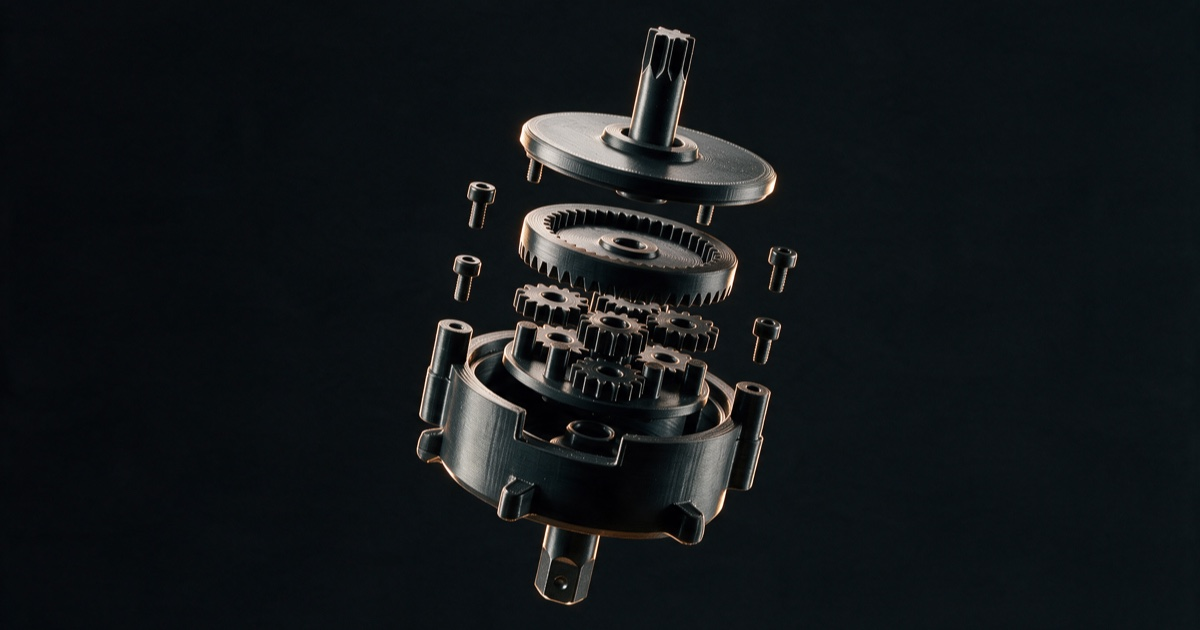
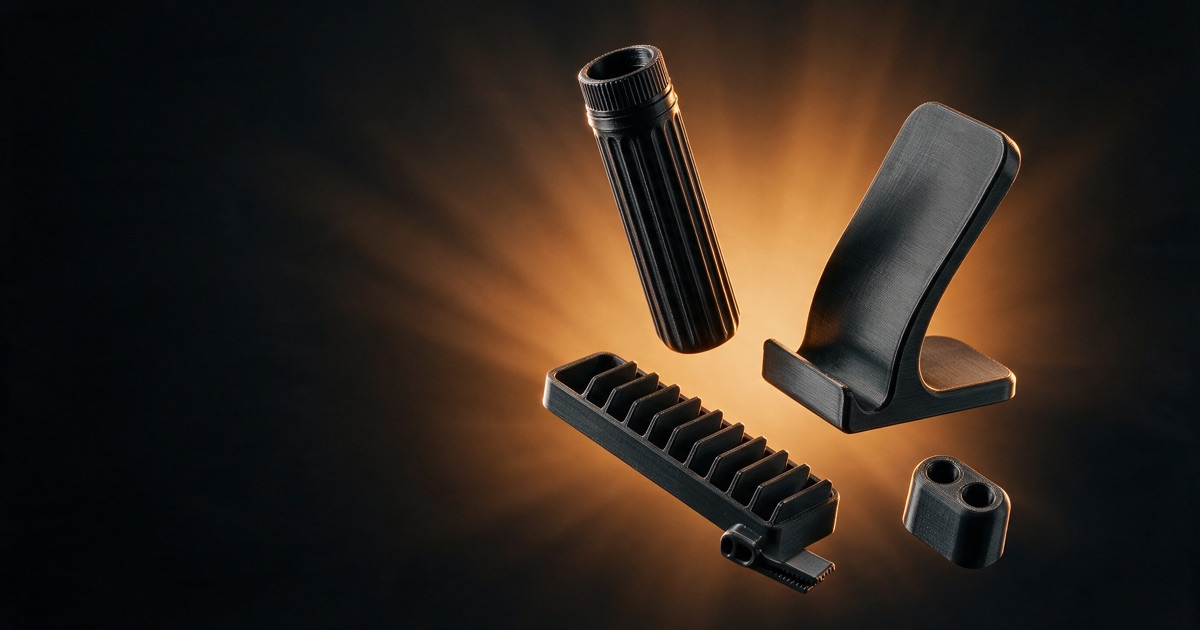
Feinschliff: OG-Bild + erweitertes Schema
- assets/og.jpg war noch das alte Explosions-Getriebe (steht so in jeder
  geteilten Vorschau auf WhatsApp/Slack/…). Ersetzt durch das Produkt-
  Familienbild (matt-schwarze Kniffe im Amber-Glow), 1200x630, ?v=2 zum
  Cache-Bust.
- index JSON-LD: Organization um foundingDate, areaServed, knowsAbout,
  contactPoint ergänzt + eigener Service-Knoten "3D-Druck auf Anfrage"
  (ohne Preis — der ist noch offen). css/js v68 -> v69.

diff --git a/index.html b/index.html
@@ -21,18 +21,18 @@
 <meta property="og:title" content="Kniff — 3D-Druck auf Anfrage aus Berlin">
 <meta property="og:description" content="Schick uns Skizze, Maße oder STL. Wir prüfen Druckbarkeit und Aufwand und drucken dein Teil – vom Einzelstück bis zur Serie. 3D-Druck auf Anfrage aus Berlin, plus fertige Kniffe für den Alltag.">
 <meta property="og:url" content="https://kniff.shop/">
-<meta property="og:image" content="https://kniff.shop/assets/og.jpg">
+<meta property="og:image" content="https://kniff.shop/assets/og.jpg?v=2">
 <meta property="og:image:width" content="1200">
 <meta property="og:image:height" content="630">
 <meta name="twitter:card" content="summary_large_image">
 <meta name="twitter:title" content="Kniff — 3D-Druck auf Anfrage aus Berlin">
 <meta name="twitter:description" content="Schick uns Skizze, Maße oder STL. Wir prüfen Druckbarkeit und Aufwand und drucken dein Teil – vom Einzelstück bis zur Serie. 3D-Druck auf Anfrage aus Berlin, plus fertige Kniffe für den Alltag.">
-<meta name="twitter:image" content="https://kniff.shop/assets/og.jpg">
+<meta name="twitter:image" content="https://kniff.shop/assets/og.jpg?v=2">
 <!-- /og -->
 <link rel="apple-touch-icon" href="assets/apple-touch-icon-180.png">
 <link rel="stylesheet" href="assets/fonts/kniff-fonts.css">
 <link rel="stylesheet" href="css/scrollcraft.css">
-<link rel="stylesheet" href="css/kniff.css?v=68">
+<link rel="stylesheet" href="css/kniff.css?v=69">
 </head>
 <body>
 <a class="kf-skip" href="#inhalt">Zum Inhalt springen</a>
@@ -459,10 +459,14 @@
       "name": "Kniff",
       "url": "https://kniff.shop/",
       "logo": "https://kniff.shop/assets/apple-touch-icon-180.png",
-      "image": "https://kniff.shop/assets/og.jpg",
+      "image": "https://kniff.shop/assets/og.jpg?v=2",
       "email": "kniffshop@gmail.com",
       "description": "3D-Druck auf Anfrage aus Berlin, plus fertige Kniffe für den Alltag.",
       "founder": { "@type": "Person", "name": "Niklas-Amoah Alotey" },
+      "foundingDate": "2023",
+      "foundingLocation": { "@type": "Place", "name": "Berlin, Deutschland" },
+      "areaServed": { "@type": "Country", "name": "Deutschland" },
+      "knowsAbout": ["3D-Druck", "FDM-Druck", "Rapid Prototyping", "Ersatzteile", "Kleinserienfertigung", "PLA", "PETG"],
       "address": {
         "@type": "PostalAddress",
         "streetAddress": "Württembergallee 27",
@@ -470,10 +474,26 @@
         "addressLocality": "Berlin",
         "addressCountry": "DE"
       },
+      "contactPoint": {
+        "@type": "ContactPoint",
+        "email": "kniffshop@gmail.com",
+        "contactType": "customer service",
+        "availableLanguage": ["de"]
+      },
       "sameAs": [
         "https://instagram.com/kniffshop",
         "https://www.etsy.com/shop/KniffShop"
       ]
+    },
+    {
+      "@type": "Service",
+      "@id": "https://kniff.shop/#service-3d-druck",
+      "name": "3D-Druck auf Anfrage",
+      "serviceType": "3D-Druck / Auftragsfertigung",
+      "provider": { "@id": "https://kniff.shop/#organization" },
+      "areaServed": { "@type": "Country", "name": "Deutschland" },
+      "description": "Vom Einzelstück bis zur Serie: Skizze, Maße oder STL einreichen, wir prüfen Druckbarkeit und Aufwand und liefern einen Festpreis. Gedruckt und von Hand geprüft in Berlin.",
+      "url": "https://kniff.shop/3d-druck-auf-anfrage.html"
     },
     {
       "@type": "WebSite",
@@ -506,6 +526,6 @@
 </script>
 
 <script src="js/scrollcraft.js" defer></script>
-<script src="js/kniff-bench.js?v=68" defer></script>
+<script src="js/kniff-bench.js?v=69" defer></script>
 </body>
 </html>

diff --git a/3d-druck-auf-anfrage.html b/3d-druck-auf-anfrage.html
@@ -20,18 +20,18 @@
 <meta property="og:title" content="3D-Druck auf Anfrage — Kniff, Berlin">
 <meta property="og:description" content="Schick uns STL, Skizze oder Maße. Wir prüfen Druckbarkeit und Aufwand und erstellen ein persönliches Festpreis-Angebot. 3D-Druck auf Anfrage aus Berlin, vom Einzelstück bis zur Serie.">
 <meta property="og:url" content="https://kniff.shop/3d-druck-auf-anfrage.html">
-<meta property="og:image" content="https://kniff.shop/assets/og.jpg">
+<meta property="og:image" content="https://kniff.shop/assets/og.jpg?v=2">
 <meta property="og:image:width" content="1200">
 <meta property="og:image:height" content="630">
 <meta name="twitter:card" content="summary_large_image">
 <meta name="twitter:title" content="3D-Druck auf Anfrage — Kniff, Berlin">
 <meta name="twitter:description" content="Schick uns STL, Skizze oder Maße. Wir prüfen Druckbarkeit und Aufwand und erstellen ein persönliches Festpreis-Angebot. 3D-Druck auf Anfrage aus Berlin, vom Einzelstück bis zur Serie.">
-<meta name="twitter:image" content="https://kniff.shop/assets/og.jpg">
+<meta name="twitter:image" content="https://kniff.shop/assets/og.jpg?v=2">
 <!-- /og -->
 <link rel="apple-touch-icon" href="assets/apple-touch-icon-180.png">
 <link rel="stylesheet" href="assets/fonts/kniff-fonts.css">
 <link rel="stylesheet" href="css/scrollcraft.css">
-<link rel="stylesheet" href="css/kniff.css?v=68">
+<link rel="stylesheet" href="css/kniff.css?v=69">
 </head>
 <body>
 <a class="kf-skip" href="#inhalt">Zum Inhalt springen</a>
@@ -252,6 +252,6 @@
 </footer>
 
 <script src="js/scrollcraft.js" defer></script>
-<script src="js/kniff-bench.js?v=68" defer></script>
+<script src="js/kniff-bench.js?v=69" defer></script>
 </body>
 </html>

diff --git a/agb.html b/agb.html
@@ -20,19 +20,19 @@
 <meta property="og:title" content="AGB — Kniff">
 <meta property="og:description" content="Allgemeine Geschäftsbedingungen von Kniff (Niklas-Amoah Alotey, Berlin): Vertragsschluss, Preise, Lieferung, Gewährleistung und Haftung für Bestellungen über kniff.shop.">
 <meta property="og:url" content="https://kniff.shop/agb.html">
-<meta property="og:image" content="https://kniff.shop/assets/og.jpg">
+<meta property="og:image" content="https://kniff.shop/assets/og.jpg?v=2">
 <meta property="og:image:width" content="1200">
 <meta property="og:image:height" content="630">
 <meta name="twitter:card" content="summary_large_image">
 <meta name="twitter:title" content="AGB — Kniff">
 <meta name="twitter:description" content="Allgemeine Geschäftsbedingungen von Kniff (Niklas-Amoah Alotey, Berlin): Vertragsschluss, Preise, Lieferung, Gewährleistung und Haftung für Bestellungen über kniff.shop.">
-<meta name="twitter:image" content="https://kniff.shop/assets/og.jpg">
+<meta name="twitter:image" content="https://kniff.shop/assets/og.jpg?v=2">
 <!-- /og -->
 <meta name="robots" content="index">
 <link rel="apple-touch-icon" href="assets/apple-touch-icon-180.png">
 <link rel="stylesheet" href="assets/fonts/kniff-fonts.css">
 <link rel="stylesheet" href="css/scrollcraft.css">
-<link rel="stylesheet" href="css/kniff.css?v=68">
+<link rel="stylesheet" href="css/kniff.css?v=69">
 </head>
 <body>
 <a class="kf-skip" href="#inhalt">Zum Inhalt springen</a>
@@ -112,6 +112,6 @@
 </footer>
 
 <script src="js/scrollcraft.js" defer></script>
-<script src="js/kniff-bench.js?v=68" defer></script>
+<script src="js/kniff-bench.js?v=69" defer></script>
 </body>
 </html>

diff --git a/ueber-uns.html b/ueber-uns.html
@@ -20,18 +20,18 @@
 <meta property="og:title" content="Über uns — Kniff, 3D-Druck aus Berlin">
 <meta property="og:description" content="Kniff ist ein kleines Team aus Berlin. Angefangen hat alles mit einem gedruckten Trichter für die Waschmaschine. Heute: eigene Designs und 3D-Druck auf Anfrage.">
 <meta property="og:url" content="https://kniff.shop/ueber-uns.html">
-<meta property="og:image" content="https://kniff.shop/assets/og.jpg">
+<meta property="og:image" content="https://kniff.shop/assets/og.jpg?v=2">
 <meta property="og:image:width" content="1200">
 <meta property="og:image:height" content="630">
 <meta name="twitter:card" content="summary_large_image">
 <meta name="twitter:title" content="Über uns — Kniff, 3D-Druck aus Berlin">
 <meta name="twitter:description" content="Kniff ist ein kleines Team aus Berlin. Angefangen hat alles mit einem gedruckten Trichter für die Waschmaschine. Heute: eigene Designs und 3D-Druck auf Anfrage.">
-<meta name="twitter:image" content="https://kniff.shop/assets/og.jpg">
+<meta name="twitter:image" content="https://kniff.shop/assets/og.jpg?v=2">
 <!-- /og -->
 <link rel="apple-touch-icon" href="assets/apple-touch-icon-180.png">
 <link rel="stylesheet" href="assets/fonts/kniff-fonts.css">
 <link rel="stylesheet" href="css/scrollcraft.css">
-<link rel="stylesheet" href="css/kniff.css?v=68">
+<link rel="stylesheet" href="css/kniff.css?v=69">
 </head>
 <body>
 <a class="kf-skip" href="#inhalt">Zum Inhalt springen</a>
@@ -99,6 +99,6 @@
 </footer>
 
 <script src="js/scrollcraft.js" defer></script>
-<script src="js/kniff-bench.js?v=68" defer></script>
+<script src="js/kniff-bench.js?v=69" defer></script>
 </body>
 </html>

diff --git a/datenschutz.html b/datenschutz.html
@@ -20,19 +20,19 @@
 <meta property="og:title" content="Datenschutzerklärung — Kniff">
 <meta property="og:description" content="Datenschutzerklärung von Kniff: welche Daten kniff.shop erhebt, wozu, auf welcher Rechtsgrundlage und welche Rechte du als betroffene Person hast.">
 <meta property="og:url" content="https://kniff.shop/datenschutz.html">
-<meta property="og:image" content="https://kniff.shop/assets/og.jpg">
+<meta property="og:image" content="https://kniff.shop/assets/og.jpg?v=2">
 <meta property="og:image:width" content="1200">
 <meta property="og:image:height" content="630">
 <meta name="twitter:card" content="summary_large_image">
 <meta name="twitter:title" content="Datenschutzerklärung — Kniff">
 <meta name="twitter:description" content="Datenschutzerklärung von Kniff: welche Daten kniff.shop erhebt, wozu, auf welcher Rechtsgrundlage und welche Rechte du als betroffene Person hast.">
-<meta name="twitter:image" content="https://kniff.shop/assets/og.jpg">
+<meta name="twitter:image" content="https://kniff.shop/assets/og.jpg?v=2">
 <!-- /og -->
 <meta name="robots" content="index">
 <link rel="apple-touch-icon" href="assets/apple-touch-icon-180.png">
 <link rel="stylesheet" href="assets/fonts/kniff-fonts.css">
 <link rel="stylesheet" href="css/scrollcraft.css">
-<link rel="stylesheet" href="css/kniff.css?v=68">
+<link rel="stylesheet" href="css/kniff.css?v=69">
 </head>
 <body>
 <a class="kf-skip" href="#inhalt">Zum Inhalt springen</a>
@@ -106,6 +106,6 @@
 </footer>
 
 <script src="js/scrollcraft.js" defer></script>
-<script src="js/kniff-bench.js?v=68" defer></script>
+<script src="js/kniff-bench.js?v=69" defer></script>
 </body>
 </html>

diff --git a/widerruf.html b/widerruf.html
@@ -20,19 +20,19 @@
 <meta property="og:title" content="Widerrufsrecht — Kniff">
 <meta property="og:description" content="Widerrufsbelehrung von Kniff: Widerrufsrecht, Fristen, Muster-Widerrufsformular und der Ausschluss bei individuell nach Kundenwunsch angefertigten Teilen.">
 <meta property="og:url" content="https://kniff.shop/widerruf.html">
-<meta property="og:image" content="https://kniff.shop/assets/og.jpg">
+<meta property="og:image" content="https://kniff.shop/assets/og.jpg?v=2">
 <meta property="og:image:width" content="1200">
 <meta property="og:image:height" content="630">
 <meta name="twitter:card" content="summary_large_image">
 <meta name="twitter:title" content="Widerrufsrecht — Kniff">
 <meta name="twitter:description" content="Widerrufsbelehrung von Kniff: Widerrufsrecht, Fristen, Muster-Widerrufsformular und der Ausschluss bei individuell nach Kundenwunsch angefertigten Teilen.">
-<meta name="twitter:image" content="https://kniff.shop/assets/og.jpg">
+<meta name="twitter:image" content="https://kniff.shop/assets/og.jpg?v=2">
 <!-- /og -->
 <meta name="robots" content="index">
 <link rel="apple-touch-icon" href="assets/apple-touch-icon-180.png">
 <link rel="stylesheet" href="assets/fonts/kniff-fonts.css">
 <link rel="stylesheet" href="css/scrollcraft.css">
-<link rel="stylesheet" href="css/kniff.css?v=68">
+<link rel="stylesheet" href="css/kniff.css?v=69">
 </head>
 <body>
 <a class="kf-skip" href="#inhalt">Zum Inhalt springen</a>
@@ -108,6 +108,6 @@
 </footer>
 
 <script src="js/scrollcraft.js" defer></script>
-<script src="js/kniff-bench.js?v=68" defer></script>
+<script src="js/kniff-bench.js?v=69" defer></script>
 </body>
 </html>

diff --git a/impressum.html b/impressum.html
@@ -20,19 +20,19 @@
 <meta property="og:title" content="Impressum — Kniff">
 <meta property="og:description" content="Impressum von Kniff: Anbieterkennzeichnung nach § 5 DDG, Kontakt, Umsatzsteuerhinweis und verantwortliche Person nach GPSR. Niklas-Amoah Alotey, Berlin.">
 <meta property="og:url" content="https://kniff.shop/impressum.html">
-<meta property="og:image" content="https://kniff.shop/assets/og.jpg">
+<meta property="og:image" content="https://kniff.shop/assets/og.jpg?v=2">
 <meta property="og:image:width" content="1200">
 <meta property="og:image:height" content="630">
 <meta name="twitter:card" content="summary_large_image">
 <meta name="twitter:title" content="Impressum — Kniff">
 <meta name="twitter:description" content="Impressum von Kniff: Anbieterkennzeichnung nach § 5 DDG, Kontakt, Umsatzsteuerhinweis und verantwortliche Person nach GPSR. Niklas-Amoah Alotey, Berlin.">
-<meta name="twitter:image" content="https://kniff.shop/assets/og.jpg">
+<meta name="twitter:image" content="https://kniff.shop/assets/og.jpg?v=2">
 <!-- /og -->
 <meta name="robots" content="index">
 <link rel="apple-touch-icon" href="assets/apple-touch-icon-180.png">
 <link rel="stylesheet" href="assets/fonts/kniff-fonts.css">
 <link rel="stylesheet" href="css/scrollcraft.css">
-<link rel="stylesheet" href="css/kniff.css?v=68">
+<link rel="stylesheet" href="css/kniff.css?v=69">
 </head>
 <body>
 <a class="kf-skip" href="#inhalt">Zum Inhalt springen</a>
@@ -107,6 +107,6 @@
 </footer>
 
 <script src="js/scrollcraft.js" defer></script>
-<script src="js/kniff-bench.js?v=68" defer></script>
+<script src="js/kniff-bench.js?v=69" defer></script>
 </body>
 </html>

diff --git a/versand-zahlung.html b/versand-zahlung.html
@@ -20,18 +20,18 @@
 <meta property="og:title" content="Versand &amp; Zahlung — Kniff">
 <meta property="og:description" content="Versand innerhalb Deutschlands per DHL, 1 bis 2 Werktage nach Versand. Zahlung per Karte, Apple Pay und Google Pay über Revolut Business.">
 <meta property="og:url" content="https://kniff.shop/versand-zahlung.html">
-<meta property="og:image" content="https://kniff.shop/assets/og.jpg">
+<meta property="og:image" content="https://kniff.shop/assets/og.jpg?v=2">
 <meta property="og:image:width" content="1200">
 <meta property="og:image:height" content="630">
 <meta name="twitter:card" content="summary_large_image">
 <meta name="twitter:title" content="Versand &amp; Zahlung — Kniff">
 <meta name="twitter:description" content="Versand innerhalb Deutschlands per DHL, 1 bis 2 Werktage nach Versand. Zahlung per Karte, Apple Pay und Google Pay über Revolut Business.">
-<meta name="twitter:image" content="https://kniff.shop/assets/og.jpg">
+<meta name="twitter:image" content="https://kniff.shop/assets/og.jpg?v=2">
 <!-- /og -->
 <link rel="apple-touch-icon" href="assets/apple-touch-icon-180.png">
 <link rel="stylesheet" href="assets/fonts/kniff-fonts.css">
 <link rel="stylesheet" href="css/scrollcraft.css">
-<link rel="stylesheet" href="css/kniff.css?v=68">
+<link rel="stylesheet" href="css/kniff.css?v=69">
 </head>
 <body>
 <a class="kf-skip" href="#inhalt">Zum Inhalt springen</a>
@@ -105,6 +105,6 @@
 </footer>
 
 <script src="js/scrollcraft.js" defer></script>
-<script src="js/kniff-bench.js?v=68" defer></script>
+<script src="js/kniff-bench.js?v=69" defer></script>
 </body>
 </html>

diff --git a/kontakt.html b/kontakt.html
@@ -20,18 +20,18 @@
 <meta property="og:title" content="Kontakt — Kniff">
 <meta property="og:description" content="Fragen zu einem Produkt, einer Bestellung oder eine eigene 3D-Druck-Idee? Schreib uns. Übliche Antwortzeit innerhalb von 48 Stunden.">
 <meta property="og:url" content="https://kniff.shop/kontakt.html">
-<meta property="og:image" content="https://kniff.shop/assets/og.jpg">
+<meta property="og:image" content="https://kniff.shop/assets/og.jpg?v=2">
 <meta property="og:image:width" content="1200">
 <meta property="og:image:height" content="630">
 <meta name="twitter:card" content="summary_large_image">
 <meta name="twitter:title" content="Kontakt — Kniff">
 <meta name="twitter:description" content="Fragen zu einem Produkt, einer Bestellung oder eine eigene 3D-Druck-Idee? Schreib uns. Übliche Antwortzeit innerhalb von 48 Stunden.">
-<meta name="twitter:image" content="https://kniff.shop/assets/og.jpg">
+<meta name="twitter:image" content="https://kniff.shop/assets/og.jpg?v=2">
 <!-- /og -->
 <link rel="apple-touch-icon" href="assets/apple-touch-icon-180.png">
 <link rel="stylesheet" href="assets/fonts/kniff-fonts.css">
 <link rel="stylesheet" href="css/scrollcraft.css">
-<link rel="stylesheet" href="css/kniff.css?v=68">
+<link rel="stylesheet" href="css/kniff.css?v=69">
 </head>
 <body>
 <a class="kf-skip" href="#inhalt">Zum Inhalt springen</a>
@@ -125,6 +125,6 @@
 </footer>
 
 <script src="js/scrollcraft.js" defer></script>
-<script src="js/kniff-bench.js?v=68" defer></script>
+<script src="js/kniff-bench.js?v=69" defer></script>
 </body>
 </html>

diff --git a/danke.html b/danke.html
@@ -19,18 +19,18 @@
 <meta property="og:title" content="Danke — Kniff">
 <meta property="og:description" content="Danke für deine Anfrage bei Kniff. Wir melden uns in der Regel innerhalb von zwei Werktagen mit einer Einschätzung und einem Festpreis.">
 <meta property="og:url" content="https://kniff.shop/danke.html">
-<meta property="og:image" content="https://kniff.shop/assets/og.jpg">
+<meta property="og:image" content="https://kniff.shop/assets/og.jpg?v=2">
 <meta property="og:image:width" content="1200">
 <meta property="og:image:height" content="630">
 <meta name="twitter:card" content="summary_large_image">
 <meta name="twitter:title" content="Danke — Kniff">
 <meta name="twitter:description" content="Danke für deine Anfrage bei Kniff. Wir melden uns in der Regel innerhalb von zwei Werktagen mit einer Einschätzung und einem Festpreis.">
-<meta name="twitter:image" content="https://kniff.shop/assets/og.jpg">
+<meta name="twitter:image" content="https://kniff.shop/assets/og.jpg?v=2">
 <!-- /og -->
 <meta name="robots" content="noindex">
 <link rel="stylesheet" href="assets/fonts/kniff-fonts.css">
 <link rel="stylesheet" href="css/scrollcraft.css">
-<link rel="stylesheet" href="css/kniff.css?v=68">
+<link rel="stylesheet" href="css/kniff.css?v=69">
 </head>
 <body>
 <a class="kf-skip" href="#inhalt">Zum Inhalt springen</a>
@@ -80,6 +80,6 @@
 </main>
 
 <script src="js/scrollcraft.js" defer></script>
-<script src="js/kniff-bench.js?v=68" defer></script>
+<script src="js/kniff-bench.js?v=69" defer></script>
 </body>
 </html>

diff --git a/shop.html b/shop.html
@@ -31,7 +31,7 @@
 <link rel="apple-touch-icon" href="assets/apple-touch-icon-180.png">
 <link rel="stylesheet" href="assets/fonts/kniff-fonts.css">
 <link rel="stylesheet" href="css/scrollcraft.css">
-<link rel="stylesheet" href="css/kniff.css?v=68">
+<link rel="stylesheet" href="css/kniff.css?v=69">
 </head>
 <body>
 <a class="kf-skip" href="#inhalt">Zum Inhalt springen</a>
@@ -321,7 +321,7 @@
 </footer>
 
 <script src="js/scrollcraft.js" defer></script>
-<script src="js/kniff-bench.js?v=68" defer></script>
+<script src="js/kniff-bench.js?v=69" defer></script>
 <script>
   /* Bildergalerie + Farbvariante je Produkt */
   document.querySelectorAll('.kf-prod').forEach(function (prod) {

diff --git a/404.html b/404.html
@@ -13,7 +13,7 @@
 <link rel="manifest" href="/site.webmanifest">
 <link rel="stylesheet" href="assets/fonts/kniff-fonts.css">
 <link rel="stylesheet" href="css/scrollcraft.css">
-<link rel="stylesheet" href="css/kniff.css?v=68">
+<link rel="stylesheet" href="css/kniff.css?v=69">
 </head>
 <body>
 <a class="kf-skip" href="#inhalt">Zum Inhalt springen</a>
@@ -66,6 +66,6 @@
 </footer>
 
 <script src="js/scrollcraft.js" defer></script>
-<script src="js/kniff-bench.js?v=68" defer></script>
+<script src="js/kniff-bench.js?v=69" defer></script>
 </body>
 </html>
